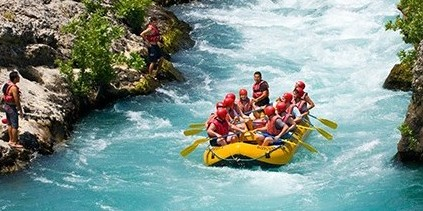
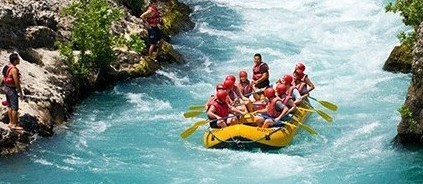
add home and trips

diff --git a/wwr/trips.html b/wwr/trips.html
@@ -1,0 +1,101 @@
+<!DOCTYPE html>
+<html lang="en">
+
+<head>
+    <meta charset="UTF-8">
+    <meta name="viewport" content="width=device-width, initial-scale=1.0">
+    <meta name="description"
+      content="Contact White Water Rafting for fun trips reservations, questions, and customer support.">
+    <meta name="author" content="Kerlando Fucien">
+
+    <title>Trips| White Water Rafting</title>
+
+    <link rel="stylesheet" href="styles/rafting.css">
+</head>
+
+<body>
+
+    <header>
+        <img src="images/images-logo.png" alt="Rafting Adventure">
+
+        <nav>
+            <a href="index.html">Home</a>
+            <a href="about.html">About Us</a>
+            <a href="trips.html">Trips</a>
+            <a href="contact.html">Contact Us</a>
+        </nav>
+    </header>
+
+    <main>
+
+        <section class="trips-hero">
+            <h1>Our Rafting Trips</h1>
+            <p>Choose your Adventure and contact us to reserve your trip today.</p>
+            <a href="contact.html">Contact Us</a>
+        </section>
+
+        <section class="trips">
+            <article>
+                <img src="images/images-adventure2.jpg" alt="Beginner rafting trip">
+                <h2>Beginner Adventure</h2>
+                <p>Perfect for families and first-time rafting.</p>
+            </article>
+
+            <article>
+                <img src="images/images-adventure5.jpg" alt="River explorer trip">
+                <h2>River Explorer</h2>
+                <p>A full day of Exciting rapids and Beautiful scenery.</p>
+            </article>
+
+            <article>
+                <img src="images/images-history.jpg" alt="Extreme rafting trip">
+                <h2>Extreme Rapids</h2>
+                <p>Designed for experienced rafters who want a challenge.</p>
+            </article>
+        </section>
+
+        <section class="trip-table">
+            <h2>Available Trips</h2>
+            <table>
+                <tr>
+                    <th>trip</th>
+                    <th>Duration</th>
+                    <th>Price</th>
+                </tr>
+                <tr>
+                    <td>Beginner Adventure</td>
+                    <td>2 Hours</td>
+                    <td>$75</td>
+                </tr>
+                <tr>
+                    <td>River Explorer</td>
+                    <td>1 Day</td>
+                    <td>$150</td>
+                </tr>
+                <tr>
+                    <td>Extreme Rapids</td>
+                    <td>2 Days</td>
+                    <td>$300</td>
+                </tr>
+            </table>
+        </section>
+    </main>
+    <footer>
+        <p>&copy; 2026 White Water Rafting | Kerlando Fucien</p>
+        <nav class="socialmedia">
+
+            <a href="https://facebook.com">
+                <img src="images/facebook-images.png" alt="Facebook Icon">
+            </a>
+            <a href="https://linkedin.com">
+                <img src="images/linkedin-images.png" alt="LinkedIn Icon">
+            </a>
+            <a href="https://instagram.com">
+                <img src="images/intagram-images.webp" alt="Instagram Icon">
+            </a>
+        </nav>
+    </footer>
+
+</body>
+
+</html>

diff --git a/wwr/index.html b/wwr/index.html
@@ -1,0 +1,86 @@
+<!DOCTYPE html>
+<html lang="en">
+
+<head>
+    <meta charset="UTF-8">
+    <meta name="viewport" content="width=device-width, initial-scale=1.0">
+    <meta name="description"
+      content="Contact White Water Rafting for fun trips reservations, questions, and customer support.">
+    <meta name="author" content="Kerlando Fucien">
+
+    <title>Home | White Water Rafting</title>
+
+    <link rel="stylesheet" href="styles/rafting.css">
+</head>
+
+<body>
+
+    <header>
+        <img src="images/images-logo.png" alt="Rafting Adventure">
+
+        <nav>
+            <a href="index.html">Home</a>
+            <a href="about.html">About Us</a>
+            <a href="trips.html">Trips</a>
+            <a href="contact.html">Contact Us</a>
+        </nav>
+    </header>
+
+    <main>
+
+        <div class="hero">
+            <img src="images/images-hero.jpg" alt="Rafting Adventure">
+            <h1>White Water Rafting Adventures</h1>
+        </div>
+
+        <section class="newsletter">
+            <h2>Subscribe to our Newsletter</h2>
+            <form>
+                <label>Name:</label>
+                <input type="text">
+
+                <label>Email:</label>
+                <input type="email">
+
+                <button type="submit">Subscribe</button>
+            </form>
+        </section>
+
+        <section class="cta">
+            <h2>Ready for Adventure?</h2>
+            <a href="trips.html">View Our Trips</a>
+        </section>
+
+        <section class="grid-content">
+            <div>
+                <img src="images/images-adventure2.jpg" alt="Rafting">
+                <h3>Exciting Trips</h3>
+                <p>experiences thrilling rafting adventures.</p>
+            </div>
+
+            <div>
+                <img src="images/images-adventure5.jpg" alt="River">
+                <h3>Beautiful Rivers</h3>
+                <p>Explore scenic Rivers with expert guides.</p>
+            </div>
+        </section>
+    </main>
+    <footer>
+        <p>&copy; 2026 White Water Rafting | Kerlando Fucien</p>
+        <nav class="socialmedia">
+
+            <a href="https://facebook.com">
+                <img src="images/facebook-images.png" alt="Facebook Icon">
+            </a>
+            <a href="https://linkedin.com">
+                <img src="images/linkedin-images.png" alt="LinkedIn Icon">
+            </a>
+            <a href="https://instagram.com">
+                <img src="images/intagram-images.webp" alt="Instagram Icon">
+            </a>
+        </nav>
+    </footer>
+
+</body>
+
+</html>

diff --git a/wwr/styles/rafting.css b/wwr/styles/rafting.css
@@ -288,3 +288,52 @@ article {
 iframe {
     border: 0;
 }
+
+.trips {
+    display: flex;
+    justify-content: space-between;
+    gap: 20px;
+}
+
+.trips article {
+    flex: 1;
+    text-align: center;
+}
+
+.trips img {
+    width: 100%;
+    max-width: 300px;
+    height: auto;
+}
+
+.trip-table table {
+    width: 100%;
+    border-collapse: collapse;
+}
+
+.trip-table th .trip-table td {
+    border: 1px solid #333;
+    padding: 10px;
+    text-align: center;
+}
+
+.trip-table th {
+    background-color: #f4a261;
+}
+
+.grid-content {
+    display: flex;
+    justify-content: space-between;
+    gap: 20px;
+}
+
+.grid-content img {
+    width: 100%;
+    max-width: 250px;
+    height: auto;
+}
+
+.grid-content div {
+    flex: 1;
+    text-align: center;
+}
